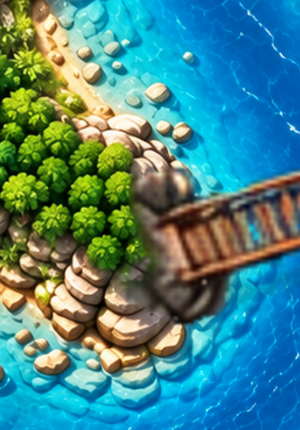
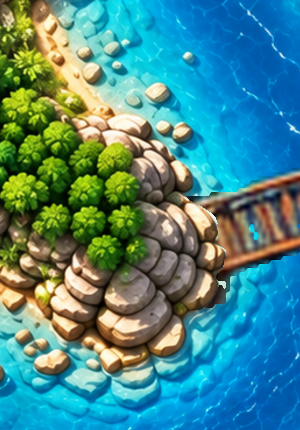
Sharpen bridge and layer native banks

diff --git a/index.html b/index.html
@@ -87,6 +87,10 @@ html, body {
   z-index: 25;
 }
 
+#bridgeConnectionLayer {
+  z-index: 26;
+}
+
 #bridgeDebugLayer {
   z-index: 35;
 }
@@ -1187,6 +1191,7 @@ html, body {
     <div id="mapTiles" aria-hidden="true"></div>
     <div id="bridgeShadowLayer" class="bridgeWorldLayer" aria-hidden="true"></div>
     <div id="bridgeForegroundLayer" class="bridgeWorldLayer" aria-hidden="true"></div>
+    <div id="bridgeConnectionLayer" class="bridgeWorldLayer" aria-hidden="true"></div>
     <div id="bridgeDebugLayer" class="bridgeWorldLayer" aria-hidden="true"></div>
   </div>
 
@@ -1353,6 +1358,7 @@ const map = document.getElementById("map");
 const mapTiles = document.getElementById("mapTiles");
 const bridgeShadowLayer = document.getElementById("bridgeShadowLayer");
 const bridgeForegroundLayer = document.getElementById("bridgeForegroundLayer");
+const bridgeConnectionLayer = document.getElementById("bridgeConnectionLayer");
 const bridgeDebugLayer = document.getElementById("bridgeDebugLayer");
 const boat = document.getElementById("boat");
 
@@ -2096,6 +2102,7 @@ function clearBridgeLayers() {
   [
     bridgeShadowLayer,
     bridgeForegroundLayer,
+    bridgeConnectionLayer,
     bridgeDebugLayer
   ].forEach((layer) => {
     layer.style.display = "none";
@@ -2170,8 +2177,12 @@ async function renderBridgeLayers() {
 
   const shadowSurface = createBridgeSurface(bridgeShadowLayer);
   const foregroundSurface = createBridgeSurface(bridgeForegroundLayer);
+  const connectionSurface = createBridgeSurface(bridgeConnectionLayer);
   appendBridgeImage(shadowSurface, bridgePlacement.shadow);
   appendBridgeImage(foregroundSurface, bridgePlacement.foreground);
+  bridgePlacement.connections.forEach((connection) => {
+    appendBridgeImage(connectionSurface, connection);
+  });
 
   if (bridgeDebugVisible) {
     const debugSurface = createBridgeSurface(bridgeDebugLayer);

diff --git a/tools/build_rusty_bridge_assets.py b/tools/build_rusty_bridge_assets.py
@@ -16,6 +16,8 @@ REFERENCE_PATH = MAP_DIR / "kanogawa-map-with-bridge-reference.png"
 MASTER_PATH = MAP_DIR / "kanogawa-map-no-bridge-8x.png"
 FOREGROUND_PATH = BRIDGE_DIR / "rusty-bridge-from-map.png"
 SHADOW_PATH = BRIDGE_DIR / "rusty-bridge-shadow.png"
+LEFT_BANK_PATH = BRIDGE_DIR / "rusty-bridge-left-bank.png"
+RIGHT_BANK_PATH = BRIDGE_DIR / "rusty-bridge-right-bank.png"
 PLACEMENT_PATH = BRIDGE_DIR / "rusty-bridge-placement.json"
 
 MASTER_WIDTH, MASTER_HEIGHT = 4488, 5608
@@ -27,11 +29,17 @@ BRIDGE_Y = REFERENCE_CROP[1] * REFERENCE_SCALE
 BRIDGE_WIDTH = (REFERENCE_CROP[2] - REFERENCE_CROP[0]) * REFERENCE_SCALE
 BRIDGE_HEIGHT = (REFERENCE_CROP[3] - REFERENCE_CROP[1]) * REFERENCE_SCALE
 
-# Reference-space masks: a narrow bridge silhouette plus minimal shore overlap.
-FOREGROUND_POLYGON = [(5, 24), (97, 2), (115, 8), (116, 32), (104, 42), (18, 61), (4, 54)]
+# Reference-space bridge silhouette. Shore pixels at both ends are excluded.
+FOREGROUND_POLYGON = [(10, 31), (99, 7), (110, 10), (110, 27), (102, 34), (18, 58), (10, 52)]
 SHADOW_POLYGON = [(4, 50), (107, 26), (114, 30), (109, 36), (17, 59), (4, 56)]
-FOREGROUND_MASK_FEATHER = 0.45
-SHADOW_MAX_ALPHA = 100
+SHADOW_MAX_ALPHA = 30
+UNSHARP_RADIUS = 0.8
+UNSHARP_PERCENT = 120
+UNSHARP_THRESHOLD = 2
+LEFT_BANK_CROP = (2140, 3840, 2280, 4060)
+LEFT_BANK_POLYGON = [(0, 0), (140, 0), (140, 220), (0, 220)]
+RIGHT_BANK_CROP = (2500, 3720, 2680, 3940)
+RIGHT_BANK_POLYGON = [(0, 0), (180, 0), (180, 220), (0, 220)]
 
 
 def clean_transparent_rgb(image: Image.Image) -> Image.Image:
@@ -54,6 +62,33 @@ def polygon_mask(size: tuple[int, int], points: list[tuple[int, int]]) -> Image.
     return mask
 
 
+def pad_rgb_into_transparency(
+    rgb: Image.Image, alpha: Image.Image, radius: int = 4
+) -> Image.Image:
+    """Extend nearby bridge colours under transparent edge pixels."""
+    output = rgb.copy()
+    source = rgb.load()
+    target = output.load()
+    mask = alpha.load()
+    for y in range(rgb.height):
+        for x in range(rgb.width):
+            if mask[x, y]:
+                continue
+            nearest = None
+            nearest_distance = radius * radius + 1
+            for sample_y in range(max(0, y - radius), min(rgb.height, y + radius + 1)):
+                for sample_x in range(max(0, x - radius), min(rgb.width, x + radius + 1)):
+                    if not mask[sample_x, sample_y]:
+                        continue
+                    distance = (sample_x - x) ** 2 + (sample_y - y) ** 2
+                    if distance < nearest_distance:
+                        nearest = source[sample_x, sample_y]
+                        nearest_distance = distance
+            if nearest is not None:
+                target[x, y] = nearest
+    return output
+
+
 def build_foreground(reference_crop: Image.Image) -> tuple[Image.Image, Image.Image]:
     rgb = reference_crop.convert("RGB")
     pixels = [
@@ -72,17 +107,35 @@ def build_foreground(reference_crop: Image.Image) -> tuple[Image.Image, Image.Im
         for red, green, blue in pixels
     ])
     colour_mask = colour_mask.filter(ImageFilter.MaxFilter(3))
-    alpha = ImageChops.multiply(
+    source_alpha = ImageChops.multiply(
         colour_mask,
         polygon_mask(reference_crop.size, FOREGROUND_POLYGON),
-    ).filter(ImageFilter.GaussianBlur(FOREGROUND_MASK_FEATHER))
+    )
 
-    foreground = reference_crop.copy()
+    # Upscale RGB once, then sharpen RGB only. Keep alpha independent so the
+    # transparent edge is not sharpened or spread across multiple pixels.
+    rgb_upscaled = pad_rgb_into_transparency(rgb, source_alpha).resize(
+        (BRIDGE_WIDTH, BRIDGE_HEIGHT), Image.Resampling.LANCZOS
+    ).filter(ImageFilter.UnsharpMask(
+        radius=UNSHARP_RADIUS,
+        percent=UNSHARP_PERCENT,
+        threshold=UNSHARP_THRESHOLD,
+    ))
+    alpha = source_alpha.resize(
+        (BRIDGE_WIDTH, BRIDGE_HEIGHT), Image.Resampling.LANCZOS
+    ).point(
+        lambda value: 0
+        if value < 96
+        else 255
+        if value > 160
+        else round((value - 96) * 255 / 64)
+    )
+
+    foreground = rgb_upscaled.convert("RGBA")
     foreground.putalpha(alpha)
-    foreground = foreground.resize((BRIDGE_WIDTH, BRIDGE_HEIGHT), Image.Resampling.BICUBIC)
     foreground = clean_transparent_rgb(foreground)
     foreground.save(FOREGROUND_PATH, optimize=True)
-    return foreground, alpha
+    return foreground, source_alpha
 
 
 def build_shadow(
@@ -111,7 +164,37 @@ def build_shadow(
     return shadow
 
 
-def placement_data(foreground: Image.Image, shadow: Image.Image) -> dict:
+def build_bank_connection(
+    master: Image.Image,
+    crop: tuple[int, int, int, int],
+    points: list[tuple[int, int]],
+    output_path: Path,
+) -> Image.Image:
+    """Cut crisp bank pixels from the active high-resolution master."""
+    bank = master.crop(crop).convert("RGBA")
+    rgb = bank.convert("RGB")
+    land = Image.new("L", bank.size)
+    land.putdata([
+        255 if red * 115 > blue * 100 else 0
+        for red, _green, blue in (
+            rgb.getpixel((x, y))
+            for y in range(rgb.height)
+            for x in range(rgb.width)
+        )
+    ])
+    alpha = ImageChops.multiply(land, polygon_mask(bank.size, points))
+    bank.putalpha(alpha)
+    bank = clean_transparent_rgb(bank)
+    bank.save(output_path, optimize=True)
+    return bank
+
+
+def placement_data(
+    foreground: Image.Image,
+    shadow: Image.Image,
+    left_bank: Image.Image,
+    right_bank: Image.Image,
+) -> dict:
     center_x = BRIDGE_X + BRIDGE_WIDTH / 2
     center_y = BRIDGE_Y + BRIDGE_HEIGHT / 2
     return {
@@ -149,6 +232,28 @@ def placement_data(foreground: Image.Image, shadow: Image.Image) -> dict:
             "opacity": SHADOW_MAX_ALPHA / 255,
             "blurSourcePixels": 0,
         },
+        "connections": [
+            {
+                "id": "west",
+                "path": "rusty-bridge-left-bank.png",
+                "naturalWidth": left_bank.width,
+                "naturalHeight": left_bank.height,
+                "x": LEFT_BANK_CROP[0],
+                "y": LEFT_BANK_CROP[1],
+                "width": left_bank.width,
+                "height": left_bank.height,
+            },
+            {
+                "id": "east",
+                "path": "rusty-bridge-right-bank.png",
+                "naturalWidth": right_bank.width,
+                "naturalHeight": right_bank.height,
+                "x": RIGHT_BANK_CROP[0],
+                "y": RIGHT_BANK_CROP[1],
+                "width": right_bank.width,
+                "height": right_bank.height,
+            },
+        ],
         "passage": {
             "description": "Navigable water under the bridge deck",
             "x": 2250,
@@ -163,10 +268,17 @@ def placement_data(foreground: Image.Image, shadow: Image.Image) -> dict:
     }
 
 
-def render_layers(master: Image.Image, foreground: Image.Image, shadow: Image.Image) -> Image.Image:
+def render_layers(
+    master: Image.Image,
+    foreground: Image.Image,
+    shadow: Image.Image,
+    connections: list[tuple[Image.Image, tuple[int, int]]],
+) -> Image.Image:
     composite = master.copy().convert("RGBA")
     composite.alpha_composite(shadow, (BRIDGE_X, BRIDGE_Y))
     composite.alpha_composite(foreground, (BRIDGE_X, BRIDGE_Y))
+    for connection, position in connections:
+        composite.alpha_composite(connection, position)
     return composite
 
 
@@ -184,12 +296,23 @@ def main() -> None:
     base_crop = base_reference.crop(REFERENCE_CROP)
     foreground, foreground_alpha = build_foreground(reference_crop)
     shadow = build_shadow(reference_crop, base_crop, foreground_alpha)
+    left_bank = build_bank_connection(
+        master, LEFT_BANK_CROP, LEFT_BANK_POLYGON, LEFT_BANK_PATH
+    )
+    right_bank = build_bank_connection(
+        master, RIGHT_BANK_CROP, RIGHT_BANK_POLYGON, RIGHT_BANK_PATH
+    )
     PLACEMENT_PATH.write_text(
-        json.dumps(placement_data(foreground, shadow), indent=2) + "\n",
+        json.dumps(
+            placement_data(foreground, shadow, left_bank, right_bank), indent=2
+        ) + "\n",
         encoding="utf-8",
     )
 
-    composite = render_layers(master, foreground, shadow)
+    composite = render_layers(master, foreground, shadow, [
+        (left_bank, (LEFT_BANK_CROP[0], LEFT_BANK_CROP[1])),
+        (right_bank, (RIGHT_BANK_CROP[0], RIGHT_BANK_CROP[1])),
+    ])
     composite.resize((1122, 1402), Image.Resampling.LANCZOS).convert("RGB").save(
         BRIDGE_DIR / "kanogawa-bridge-composite-preview.jpg",
         quality=93,

diff --git a/tools/test_rusty_bridge.py b/tools/test_rusty_bridge.py
@@ -34,8 +34,14 @@ def assert_asset_properties() -> None:
         alpha_bbox[1],
         foreground.width - alpha_bbox[2],
         foreground.height - alpha_bbox[3],
-    ) <= 30
-    assert shadow.getchannel("A").getextrema()[1] <= 100
+    ) <= 75
+    assert shadow.getchannel("A").getextrema()[1] <= 30
+    foreground_alpha = list(foreground.getchannel("A").get_flattened_data())
+    assert sum(0 < value < 255 for value in foreground_alpha) / len(foreground_alpha) < 0.01
+    assert len(PLACEMENT["connections"]) == 2
+    for connection in PLACEMENT["connections"]:
+        bank_alpha = Image.open(BRIDGE_DIR / connection["path"]).getchannel("A")
+        assert set(bank_alpha.get_flattened_data()).issubset({0, 255})
 
 
 def assert_navigation_corridor() -> None:
